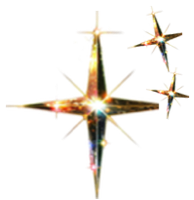
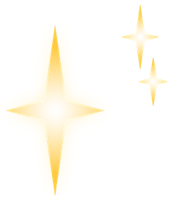
fix: couleurs de fusion basees sur la case, roue lisible + design ameliore, poussiere d'etoiles refaite, emoji palette manquant
- Animation de fusion : les couleurs de l'effet d'impact (rayons,
  anneau de choc, debris) suivent maintenant les vraies couleurs de la
  case obtenue (TIERS[].from/to) au lieu d'un gold/orange fixe pour
  toutes les fusions. Loris: "les couleurs devraient pas etre les
  couleurs de la case ?" - nouvel helper hexRgbTriplet() + variables CSS
  --mergeBright/--mergeDark posees sur la case (et copiees sur le
  screenFlash, qui vit sur <body>) par playMeteorMerge(), verifie
  numeriquement (getComputedStyle) pour un tier 1 et un tier 9 avant
  commit.
- Roue quotidienne : les 3 lots les plus rares (Fragment de skin,
  1500 stardust, 1 energie) avaient un texte qui debordait largement
  de leur propre couleur sur les voisines - la largeur de chaque
  etiquette est maintenant calculee a partir de la largeur reelle de
  SA part (corde de cercle), plus une police/icone plus petites sous
  25°. Design de la roue ameliore au passage : traits de separation
  fins entre les parts, moyeu central brillant, reflet glossy sous le
  degrade de couleurs.
- Icone poussiere d'etoiles refaite - Loris trouvait qu'elle rendait
  moins bien que l'emoji ✨ (rayons trop fins/reunis, silhouette
  diffuse). Nouvelle version dessinee en forme solide/nette (comme
  l'emoji) avec un coeur blanc chaud degrade vers l'or, verifiee via
  composite a taille reelle (~24px) sur le fond du badge avant
  integration.
- Emoji 🖼 retire du titre "Set d'icônes" du popup de gestion des
[…]

Changed region(s): [[0.0291, 0.03, 0.9884, 1.0], [0.6686, 0.69, 0.6977, 0.72], [0.6395, 0.66, 0.6686, 0.69]]

diff --git a/www/css/style.css b/www/css/style.css
@@ -216,9 +216,16 @@ html,body{margin:0;padding:0;height:100%;background:var(--bg-deep);color:var(--t
    the payoff (tile pop, flash, starburst, ring, shake, sparks) has to feel
    INSTANT since this fires on every single merge, often several per
    second. Nothing here should read as "waiting". Pure opacity+scale on a
-   blurred radial gradient - no shape/rotation to read as a "thing". */
+   blurred radial gradient - no shape/rotation to read as a "thing".
+   --mergeBright/--mergeDark (below, throughout this block) are the landed
+   tile's own TIERS[].from/to colors, set on `cell` (and copied onto
+   .screenFlash, which lives on <body>) by playMeteorMerge() - Loris: "les
+   couleurs devraient pas être les couleurs de la case ?". Was a fixed
+   gold/amber palette regardless of tier; the fallback values after each
+   var() are that old palette, kept only so nothing breaks if a color is
+   somehow never set. */
 .chargeGlow{position:absolute;top:50%;left:50%;width:14px;height:14px;margin:-7px 0 0 -7px;border-radius:50%;
-  background:radial-gradient(circle,rgba(255,247,227,.95),rgba(251,191,36,.55) 55%,transparent 75%);
+  background:radial-gradient(circle,rgba(255,247,227,.95),rgba(var(--mergeBright,251,191,36),.55) 55%,transparent 75%);
   filter:blur(1.5px);animation:chargeGlow .11s cubic-bezier(.4,0,.2,1) forwards;
   z-index:6;pointer-events:none;}
 @keyframes chargeGlow{0%{transform:scale(.15);opacity:0;}100%{transform:scale(3.2);opacity:.95;}}
@@ -235,7 +242,7 @@ html,body{margin:0;padding:0;height:100%;background:var(--bg-deep);color:var(--t
 .screenFlash{position:fixed;left:0;top:0;width:100vw;height:100vh;z-index:80;pointer-events:none;
   background:radial-gradient(circle at var(--fx,50%) var(--fy,45%),
     rgba(255,247,227,calc(.7 * var(--fpower,1))),
-    rgba(251,191,36,calc(.3 * var(--fpower,1))) calc(13% * var(--fpower,1)),
+    rgba(var(--mergeBright,251,191,36),calc(.3 * var(--fpower,1))) calc(13% * var(--fpower,1)),
     transparent calc(34% * var(--fpower,1)));
   animation:screenFlash .38s ease-out forwards;}
 @keyframes screenFlash{0%{opacity:0;}10%{opacity:1;}100%{opacity:0;}}
@@ -252,7 +259,7 @@ html,body{margin:0;padding:0;height:100%;background:var(--bg-deep);color:var(--t
    (streak/tier, see playMeteorMerge in ui.js). */
 .burstRay{position:absolute;left:50%;top:50%;width:3.5px;height:36px;margin:-36px -1.75px 0 -1.75px;
   transform-origin:50% 100%;border-radius:2px;pointer-events:none;z-index:2;
-  background:linear-gradient(to top,rgba(255,213,120,1),rgba(255,236,190,.6) 45%,transparent 100%);
+  background:linear-gradient(to top,rgba(var(--mergeBright,255,213,120),1),rgba(255,255,255,.6) 45%,transparent 100%);
   animation:burstRay .32s cubic-bezier(.16,1,.3,1) forwards;}
 .burstRay.short{height:21px;margin-top:-21px;opacity:.8;}
 @keyframes burstRay{
@@ -262,13 +269,13 @@ html,body{margin:0;padding:0;height:100%;background:var(--bg-deep);color:var(--t
 }
 
 .impactFlash{position:absolute;inset:0;border-radius:12px;pointer-events:none;z-index:3;
-  background:radial-gradient(circle,rgba(255,247,227,1),rgba(251,146,36,.45) 45%,transparent 72%);
+  background:radial-gradient(circle,rgba(255,247,227,1),rgba(var(--mergeBright,251,146,36),.45) 45%,transparent 72%);
   animation:impactFlash .26s ease-out forwards;}
 @keyframes impactFlash{0%{opacity:0;transform:scale(.3);}20%{opacity:1;}100%{opacity:0;transform:scale(1.4);}}
 
 .impactRing{position:absolute;left:50%;top:50%;width:10px;height:10px;margin:-5px 0 0 -5px;
-  border-radius:50%;border:3px solid rgba(255,213,120,1);pointer-events:none;z-index:8;
-  box-shadow:0 0 14px 2px rgba(251,191,36,.6);
+  border-radius:50%;border:3px solid rgba(var(--mergeBright,255,213,120),1);pointer-events:none;z-index:8;
+  box-shadow:0 0 14px 2px rgba(var(--mergeBright,251,191,36),.6);
   animation:impactRing .42s ease-out forwards;}
 @keyframes impactRing{0%{transform:scale(.3);opacity:1;}100%{transform:scale(calc(10.5 * var(--ringPower,1)));opacity:0;}}
 
@@ -287,7 +294,7 @@ html,body{margin:0;padding:0;height:100%;background:var(--bg-deep);color:var(--t
 /* Mixed rock chips + bright star sparkles, sized per-chip via --chipScale -
    reads as "the impact released stardust", not just a plain rock explosion. */
 .debrisChip{position:absolute;left:50%;top:50%;width:6px;height:6px;border-radius:1px;pointer-events:none;z-index:9;
-  background:linear-gradient(135deg,#ffcf85,#7c3e0f);
+  background:linear-gradient(135deg,rgb(var(--mergeBright,255,207,133)),rgb(var(--mergeDark,124,62,15)));
   animation:debrisFly .52s cubic-bezier(.2,.7,.4,1) forwards;}
 .debrisChip.spark{width:5px;height:5px;border-radius:50%;background:radial-gradient(circle,#fff9e6,var(--stardust));
   box-shadow:0 0 5px 1px rgba(251,191,36,.75);}
@@ -649,14 +656,34 @@ html,body{margin:0;padding:0;height:100%;background:var(--bg-deep);color:var(--t
 .wheelWrap{position:relative;width:180px;height:180px;margin:10px auto;}
 /* Background is now set inline via buildWheelSegments() (ui.js), computed
    from WHEEL_PRIZES' real weights - a slice's visual size now actually
-   matches its real odds, which the old hand-picked CSS angles didn't. */
+   matches its real odds, which the old hand-picked CSS angles didn't. A
+   radial highlight is layered under the conic-gradient there too, for a
+   bit of glossy shine (Loris: "améliore un peu le design de la roue").
+   overflow:hidden clips the dividers/labels to the circle so nothing pokes
+   out past the rim; .wheelPointer is a sibling in .wheelWrap, unaffected. */
 .wheel{width:100%;height:100%;border-radius:50%;border:4px solid var(--accent);
-  position:relative;box-shadow:0 0 0 2px #05040a, 0 4px 20px rgba(0,0,0,.5);
+  position:relative;overflow:hidden;box-shadow:0 0 0 2px #05040a, 0 4px 20px rgba(0,0,0,.5);
   transition:transform 3.5s cubic-bezier(.17,.67,.2,1);display:flex;align-items:center;justify-content:center;font-size:11px;}
+/* Per-label width is set inline by buildWheelSegments() (ui.js) - clamped to
+   that slice's own chord length so a narrow slice's text can't spill past
+   its color into the next one any more. .narrow (span < 25°, the 3
+   lowest-weight prizes) drops to a smaller font/icon on top of that so short
+   labels ("1 ⚡", "1500 ✨", "Skin") still have a real chance of fitting. */
 .wheelSegLabel{position:absolute;transform:translate(-50%,-50%);font-size:10px;font-weight:700;
   color:#fff;text-align:center;text-shadow:0 1px 3px rgba(0,0,0,.8);line-height:1.15;
-  width:52px;pointer-events:none;}
+  pointer-events:none;}
 .wheelSegLabel .inlineCurrencyIcon{width:12px;height:12px;vertical-align:-2px;}
+.wheelSegLabel.narrow{font-size:8.5px;line-height:1.05;}
+.wheelSegLabel.narrow .inlineCurrencyIcon{width:9px;height:9px;vertical-align:-1.5px;}
+/* Thin radial divider "clock hands" between slices - one per boundary
+   angle, rotated to that angle via inline style in buildWheelSegments().
+   transform-origin:top center keeps the pivot pinned at the wheel's exact
+   center regardless of rotation (standard pie-chart-divider trick). */
+.wheelDivider{position:absolute;left:50%;top:50%;width:1px;height:50%;
+  background:rgba(5,4,10,.5);transform-origin:top center;pointer-events:none;z-index:1;}
+.wheelHub{position:absolute;left:50%;top:50%;width:22px;height:22px;margin:-11px 0 0 -11px;
+  border-radius:50%;background:radial-gradient(circle at 35% 30%,#fff8e6,var(--accent2) 55%,var(--accent) 100%);
+  box-shadow:0 0 0 2px #05040a,0 2px 8px rgba(0,0,0,.5);pointer-events:none;z-index:3;}
 .wheelPointer{position:absolute;top:-14px;left:50%;transform:translateX(-50%);font-size:20px;color:var(--accent2);}
 
 /* Ad / IAP simulation overlay */

diff --git a/www/js/ui.js b/www/js/ui.js
@@ -81,6 +81,18 @@ function currencyIconHtml(type) {
   return "";
 }
 
+// "#3a3550" -> "58, 53, 80" - lets style.css plug a TIERS[].from/to color
+// straight into rgba(var(--x), a) / rgb(var(--x)) without baking a fixed
+// alpha in JS. Used by playMeteorMerge() to make the merge impact effect
+// (burst rays, ring, debris, flash) match the landed tile's own colors.
+function hexRgbTriplet(hex) {
+  const h = hex.replace("#", "");
+  const r = parseInt(h.substring(0, 2), 16);
+  const g = parseInt(h.substring(2, 4), 16);
+  const b = parseInt(h.substring(4, 6), 16);
+  return `${r}, ${g}, ${b}`;
+}
+
 // Reward labels in config.js (DAILY_LOGIN_REWARDS) and retention.js
 // (WHEEL_PRIZES) are plain strings with the emoji baked in ("100 ✨",
 // "20 💎"...) - both files load BEFORE this one, so they can't call
@@ -435,6 +447,21 @@ function playMeteorMerge(idx, onImpact, streak, newTier) {
   // genuinely stays small instead of still blooming out a fixed amount.
   const power = Math.min(0.4 + Math.min(newTier || 1, 10) * 0.19 + Math.min(streak, 5) * 0.02, 2.3);
   const cell = cellEls[idx];
+
+  // Impact colors now match the landed tile's own gradient (TIERS[].from/to)
+  // instead of a fixed gold/amber palette - Loris: "les couleurs devraient
+  // pas être les couleurs de la case ?". --mergeBright/--mergeDark carry the
+  // "r, g, b" triplets consumed by style.css (rgba(var(--mergeBright), a)),
+  // set on `cell` (parent of every impact element except screenFlash, which
+  // lives on <body> and gets its own copy below) so a merge landing on a
+  // DIFFERENT cell moments later - or an older effect from this same cell
+  // still fading out - never has its colors swapped mid-animation.
+  const tier = TIERS[Math.min(Math.max((newTier || 1) - 1, 0), TIERS.length - 1)];
+  const mergeBright = hexRgbTriplet(tier.from);
+  const mergeDark = hexRgbTriplet(tier.to);
+  cell.style.setProperty("--mergeBright", mergeBright);
+  cell.style.setProperty("--mergeDark", mergeDark);
+
   const glow = document.createElement("div");
   glow.className = "chargeGlow";
   cell.appendChild(glow);
@@ -461,6 +488,7 @@ function playMeteorMerge(idx, onImpact, streak, newTier) {
     flash.style.setProperty("--fx", (rect.left + rect.width / 2) + "px");
     flash.style.setProperty("--fy", (rect.top + rect.height / 2) + "px");
     flash.style.setProperty("--fpower", power.toFixed(2));
+    flash.style.setProperty("--mergeBright", mergeBright);
     document.body.appendChild(flash);
     setTimeout(() => flash.remove(), 420);
 
@@ -723,7 +751,7 @@ function renderShopPanel() {
   });
   dom.panelBody.appendChild(gemGrid);
 
-  dom.panelBody.appendChild(el("h3", null, "🖼 Sets d'icônes"));
+  dom.panelBody.appendChild(el("h3", null, `<img class="inlineCurrencyIcon" src="assets/ui/palette.png" alt=""> Sets d'icônes`));
   // Emoji/Illustré switch moved to the skin MANAGER popup (openSkinManagerModal)
   // per Loris - it's a display preference, not a shop purchase, it doesn't
   // belong in the boutique. See renderIconStyleToggle() below.
@@ -1346,7 +1374,7 @@ function openSkinManagerModal() {
   const state = Game.state;
   const list = $("skinManagerList");
   list.innerHTML = "";
-  list.appendChild(el("h3", null, "🖼 Set d'icônes"));
+  list.appendChild(el("h3", null, `<img class="inlineCurrencyIcon" src="assets/ui/palette.png" alt=""> Set d'icônes`));
   // Emoji/Illustré switch lives here (Loris), not in the shop.
   list.appendChild(renderIconStyleToggle(openSkinManagerModal));
   list.appendChild(renderCosmeticGrid(EMOJI_SETS, state.equippedEmojiSet, openSkinManagerModal));
@@ -1443,29 +1471,58 @@ function buildStars() {
 // slice gets an upright label (via withCurrencyIcons so it picks up the
 // custom currency icons) positioned at its middle angle. Static content -
 // built once at boot, not on every modal open.
+// Redone per Loris feedback: the 3 lowest-weight prizes (Fragment de skin
+// 10%, 1500 ✨ 5%, 1 ⚡ 5%) got such thin slices that the label spilled
+// well past their own color into the neighboring ones. Each label's width
+// is now clamped to the actual chord length of ITS slice at radius R (2 *
+// R * sin(halfAngle)), not a fixed 52px for every slice regardless of how
+// wide it is - narrow slices also drop to a smaller font/icon (.narrow) so
+// the text has a real chance of fitting on one or two short lines instead
+// of overflowing sideways. Also added thin radial dividers between slices
+// and a center hub, plus a soft glossy highlight layered under the color
+// wedges - "améliorer le design" - purely decorative, doesn't touch the
+// weight-accurate slice math below.
 function buildWheelSegments() {
   const wheelEl = $("wheelEl");
   wheelEl.innerHTML = "";
   const total = WHEEL_PRIZES.reduce((s, p) => s + p.weight, 0);
   const colors = ["#3730a3", "#7c3aed", "#2563eb", "#0891b2", "#be185d", "#f59e0b", "#dc2626"];
-  const R = 62; // label radius (px) - wheel is 180px wide, keeps labels well inside the border
+  const R = 64; // label radius (px) - wheel is 180px wide, keeps labels well inside the border
   let acc = 0;
   const stops = [];
+  const boundaries = [];
   WHEEL_PRIZES.forEach((p, i) => {
     const startDeg = (acc / total) * 360;
     acc += p.weight;
     const endDeg = (acc / total) * 360;
+    const spanDeg = endDeg - startDeg;
+    boundaries.push(startDeg);
     stops.push(`${colors[i % colors.length]} ${startDeg}deg ${endDeg}deg`);
     const midDeg = (startDeg + endDeg) / 2;
     const rad = (midDeg - 90) * Math.PI / 180; // conic-gradient's 0deg is 12 o'clock, clockwise - align label math the same way
     const x = R * Math.cos(rad);
     const y = R * Math.sin(rad);
-    const label = el("div", "wheelSegLabel", withCurrencyIcons(p.label));
+
+    const chord = 2 * R * Math.sin((spanDeg / 2) * Math.PI / 180);
+    const width = Math.max(20, Math.min(52, Math.round(chord * 0.86)));
+    const narrow = spanDeg < 25;
+    const label = el("div", "wheelSegLabel" + (narrow ? " narrow" : ""),
+      withCurrencyIcons(p.shortLabel || p.label));
     label.style.left = `calc(50% + ${x.toFixed(1)}px)`;
     label.style.top = `calc(50% + ${y.toFixed(1)}px)`;
+    label.style.width = width + "px";
     wheelEl.appendChild(label);
   });
-  wheelEl.style.background = `conic-gradient(from 0deg, ${stops.join(", ")})`;
+  wheelEl.style.background =
+    `radial-gradient(circle at 34% 24%, rgba(255,255,255,.20), transparent 45%), ` +
+    `conic-gradient(from 0deg, ${stops.join(", ")})`;
+
+  boundaries.forEach((deg) => {
+    const line = el("div", "wheelDivider");
+    line.style.transform = `translateX(-50%) rotate(${deg}deg)`;
+    wheelEl.appendChild(line);
+  });
+  wheelEl.appendChild(el("div", "wheelHub"));
 }
 
 // Occasional shooting star crossing the background, behind the grid

diff --git a/www/index.html b/www/index.html
@@ -37,7 +37,7 @@
     <meta name="apple-mobile-web-app-title" content="Godspark" />
     <meta name="apple-mobile-web-app-capable" content="yes" />
     <meta name="theme-color" content="#0a0620" />
-    <link rel="stylesheet" href="css/style.css?v=60" />
+    <link rel="stylesheet" href="css/style.css?v=61" />
   </head>
   <body>
     <div id="starsBg"></div>
@@ -548,16 +548,16 @@
       </div>
     </div>
 
-    <script src="js/config.js?v=60"></script>
-    <script src="js/state.js?v=60"></script>
-    <script src="js/audio.js?v=60"></script>
-    <script src="js/services.js?v=60"></script>
-    <script src="js/economy.js?v=60"></script>
-    <script src="js/gods.js?v=60"></script>
-    <script src="js/retention.js?v=60"></script>
-    <script src="js/ui.js?v=60"></script>
-    <script src="js/input.js?v=60"></script>
-    <script src="js/main.js?v=60"></script>
+    <script src="js/config.js?v=61"></script>
+    <script src="js/state.js?v=61"></script>
+    <script src="js/audio.js?v=61"></script>
+    <script src="js/services.js?v=61"></script>
+    <script src="js/economy.js?v=61"></script>
+    <script src="js/gods.js?v=61"></script>
+    <script src="js/retention.js?v=61"></script>
+    <script src="js/ui.js?v=61"></script>
+    <script src="js/input.js?v=61"></script>
+    <script src="js/main.js?v=61"></script>
     <script type="module" src="js/native-bridge.js"></script>
   </body>
 </html>

diff --git a/www/js/retention.js b/www/js/retention.js
@@ -242,12 +242,16 @@ function checkAchievements(state) {
 }
 
 // ---- Daily wheel ----
+// `shortLabel` (optional): a tighter variant for buildWheelSegments() (ui.js)
+// to fit inside a narrow slice - only "Fragment de skin" needs one (its 36°
+// slice is too tight for the full 3-word label at a readable size). Full
+// `label` is still what shows in the "Gagné : ..." result text.
 const WHEEL_PRIZES = [
   { type: "stardust", amount: 200, weight: 30, label: "200 ✨" },
   { type: "stardust", amount: 500, weight: 20, label: "500 ✨" },
   { type: "gems", amount: 10, weight: 20, label: "10 💎" },
   { type: "gems", amount: 25, weight: 10, label: "25 💎" },
-  { type: "skinFragment", amount: 1, weight: 10, label: "Fragment de skin" },
+  { type: "skinFragment", amount: 1, weight: 10, label: "Fragment de skin", shortLabel: "Skin" },
   { type: "cosmicEnergy", amount: 1, weight: 5, label: "1 ⚡" },
   { type: "stardust", amount: 1500, weight: 5, label: "1500 ✨" },
 ];
